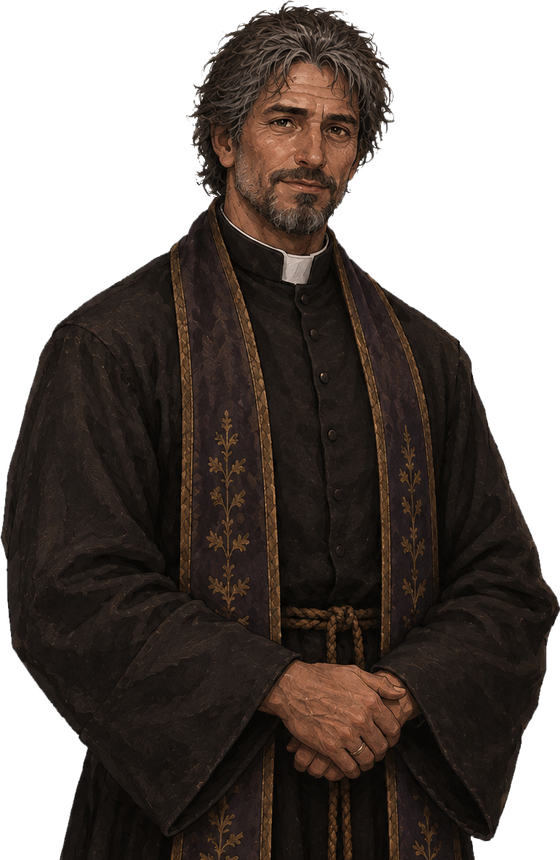
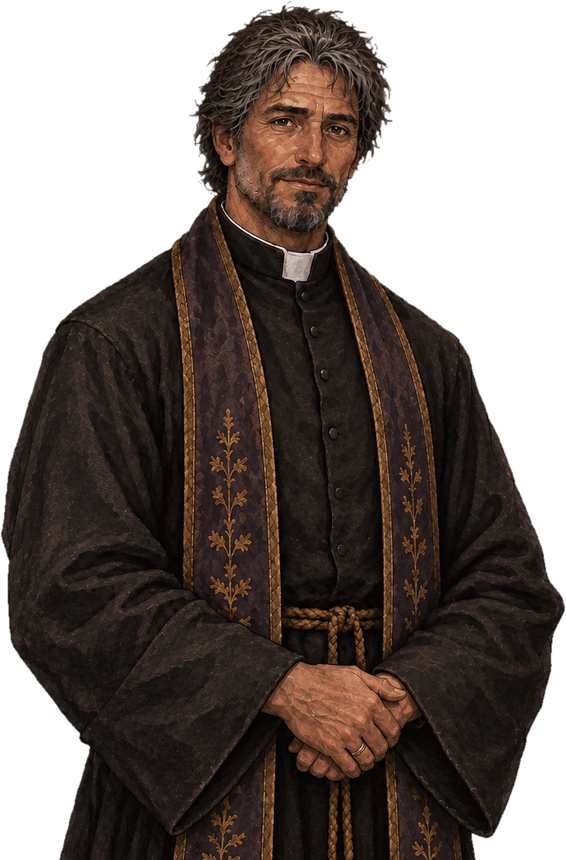
Padre com a arte nova; botão de tela cheia das Opções funcionando no navegador

diff --git a/Jogo/cenas/opcoes.py b/Jogo/cenas/opcoes.py
@@ -32,12 +32,6 @@ class Opcoes(Cena):
         self.botao_tutorial = botao(MENU["tutorial"], (800, 740), largura=300)
         self.botao_voltar = botao(OPCOES["voltar"], (800, 800))
 
-        if config.NO_NAVEGADOR:
-            # No navegador quem controla a tela cheia é a página; mostramos o porquê.
-            for botao in (self.botao_desligada, self.botao_ligada):
-                botao.habilitado = False
-            self.botao_ligada.motivo = OPCOES["motivo_navegador"]
-
         self.botoes = [self.botao_normal, self.botao_grande, self.botao_desligada,
                        self.botao_ligada, self.botao_som_desligado, self.botao_som_ligado,
                        self.botao_tutorial, self.botao_voltar]
@@ -64,10 +58,10 @@ class Opcoes(Cena):
             preferencias.tamanho_texto = "grande"
             preferencias.salvar()
         elif self.botao_ligada.clicado(evento):
-            if not preferencias.tela_cheia:
+            if not self.jogo.em_tela_cheia():
                 self.jogo.alternar_tela_cheia()
         elif self.botao_desligada.clicado(evento):
-            if preferencias.tela_cheia:
+            if self.jogo.em_tela_cheia():
                 self.jogo.alternar_tela_cheia()
         elif self.botao_som_ligado.clicado(evento) or self.botao_som_desligado.clicado(evento):
             preferencias.som = self.botao_som_ligado.clicado(evento)
@@ -81,8 +75,9 @@ class Opcoes(Cena):
         # O "●" e o contorno mostram a escolha atual.
         self.botao_normal.selecionado = preferencias.tamanho_texto == "normal"
         self.botao_grande.selecionado = preferencias.tamanho_texto == "grande"
-        self.botao_ligada.selecionado = preferencias.tela_cheia
-        self.botao_desligada.selecionado = not preferencias.tela_cheia
+        tela_cheia = self.jogo.em_tela_cheia()
+        self.botao_ligada.selecionado = tela_cheia
+        self.botao_desligada.selecionado = not tela_cheia
         self.botao_som_ligado.selecionado = preferencias.som
         self.botao_som_desligado.selecionado = not preferencias.som
         for botao in self.botoes:
@@ -97,7 +92,9 @@ class Opcoes(Cena):
         ui.texto_simples(tela, OPCOES["titulo"], (800, 90), config.TAMANHO_SUBTITULO + 8,
                          nome_fonte="serif_negrito")
         ui.texto_simples(tela, OPCOES["tamanho_texto"], (800, 155), TAMANHO, cor=config.BARRO)
-        ui.texto_simples(tela, OPCOES["tela_cheia"], (800, 270), TAMANHO, cor=config.BARRO)
+        # No navegador, o F11 é do próprio navegador: o atalho não aparece.
+        titulo = OPCOES["tela_cheia_navegador"] if config.NO_NAVEGADOR else OPCOES["tela_cheia"]
+        ui.texto_simples(tela, titulo, (800, 270), TAMANHO, cor=config.BARRO)
         ui.texto_simples(tela, OPCOES["som"], (800, 385), TAMANHO, cor=config.BARRO)
         for botao in self.botoes:
             botao.desenhar(tela)

diff --git a/Jogo/motor/jogo.py b/Jogo/motor/jogo.py
@@ -103,9 +103,30 @@ class Jogo:
         else:
             self.janela = pygame.display.set_mode(self.tamanho_janela, pygame.RESIZABLE)
 
+    def em_tela_cheia(self):
+        """No navegador, pergunta à página (o jogador pode sair com Esc a qualquer hora)."""
+        if config.NO_NAVEGADOR:
+            try:
+                import platform  # no pygbag, "platform" dá acesso ao navegador
+                return bool(platform.window.document.fullscreenElement)
+            except Exception:
+                return False
+        return self.preferencias.tela_cheia
+
     def alternar_tela_cheia(self):
         if config.NO_NAVEGADOR:
-            return  # no navegador quem controla isso é o próprio navegador
+            # O navegador só aceita entrar em tela cheia logo depois de um clique (o botão das
+            # Opções). Se ele recusar, nada acontece: o jogo segue na página.
+            try:
+                import platform
+                documento = platform.window.document
+                if documento.fullscreenElement:
+                    documento.exitFullscreen()
+                else:
+                    documento.documentElement.requestFullscreen()
+            except Exception as erro:
+                print("Aviso: o navegador não deixou mudar a tela cheia -", erro)
+            return
         self.preferencias.tela_cheia = not self.preferencias.tela_cheia
         self.preferencias.salvar()
         self._abrir_janela()

diff --git a/Jogo/dados/textos.py b/Jogo/dados/textos.py
@@ -41,7 +41,7 @@ OPCOES = {
     "tela_cheia": "Tela cheia (atalho: F11)",
     "ligada": "Ligada",
     "desligada": "Desligada",
-    "motivo_navegador": "No navegador, use o botão de tela cheia da página",
+    "tela_cheia_navegador": "Tela cheia (Esc para sair)",
     "som": "Som",
     "som_ligado": "Ligado",
     "som_desligado": "Desligado",
